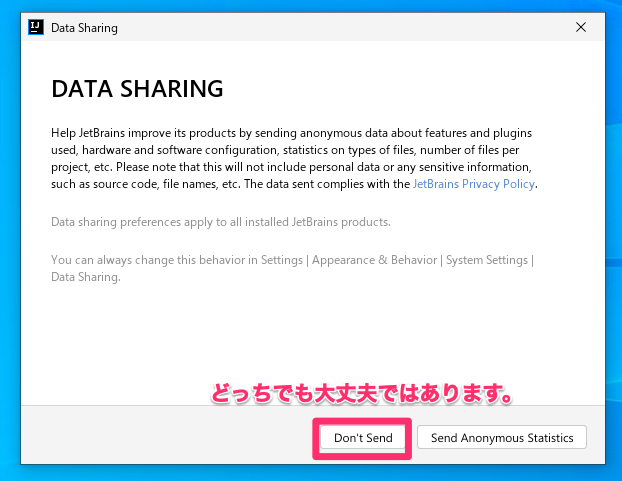
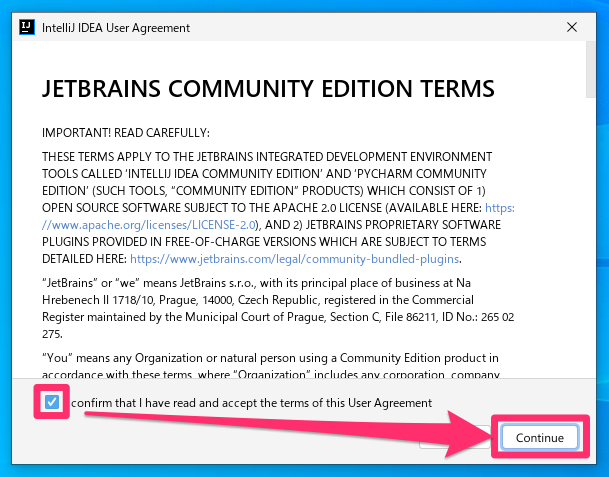
WIP: chapter1

Changed region(s): [[0.0, 0.0294, 1.0, 0.9979]]

diff --git a/doc/win.md b/doc/win.md
@@ -1,8 +1,14 @@
-# Scalaによるプログラミング👩💻入門(Windows版)
+# Chapter1. Scalaによるプログラミング👩💻入門(Windows版) 
 
-## 環境構築(プログラムを書く準備)
+Chapter1では、プログラミングのなんちゃって体験をするの巻です。  
+何をやっているかわからないことだらけの内容にはなってしまうと思いますが、  
+とりあえず手順をなぞってみて欲しいです。  
+実際に体験するのとしないとでは天地の差があるまじろ(?)   
+・・・では。いこうぞ😏
 
-### 1. Chocolatey🍫のインストール
+## 1. プログラムを書く準備(環境構築)
+
+### 1-1. Chocolatey🍫のインストール
 
 PowerShell(Windowsの組込みソフトウェア)を起動します。  
 下図のようにタスクバー左の検索ボックスに`power`といった入力をすると、  
@@ -24,17 +30,16 @@ Set-ExecutionPolicy Bypass -Scope Process -Force; [System.Net.ServicePointManage
 ```
 
 上記をコピーして(上記エリア内にカーソルを合わせると右端に出てくるアイコンをクリックすると簡単です)、  
-PowerShell上で貼り付けます(PowerShellウィンドウ上を右クリックでも張り付きます)。  
+PowerShell上で貼り付けます(PowerShellウィンドウ上を右クリックで張り付きます)。  
 以下のような感じになれば、Enterキーで確定します。
 
 ![choco1.png](image/choco1.png)
 
-暫く待つと以下のような感じに表示されると思います。グレートです。
+暫く待つと以下のような感じに表示されると思います。グレートです🍫
 
 ![choco2.png](image/choco2.png)
 
-
-### 2. JDK, sbt, IntelliJのインストール
+### 1-2. JDK, sbt, IntelliJのインストール
 
 引き続きPowerShellで以下のコマンドを実行します。
 
@@ -50,30 +55,33 @@ choco install -y adoptopenjdk8 sbt intellijidea-community
 
 ![tools2.png](image/tools2.png)
 
-後乗せですが、インストールしたものたちの解説をしておきます。
+ここで、インストールしたものたちの解説をしておきます。
 
-* Git: プログラマの親友
-* JDK: Scalaのエンジン
+* JDK(adoptopenjdk8): Scalaのエンジン
 * sbt: Scalaの親友
-* IntelliJ: プログラマの心の友
+* IntelliJ(intellijidea-community): プログラマの心の友
 
 ・・・冗談です。  
 ただ、使いながら解説したほうが良いと思ってますので、    
-逐次説明を交えていきます。
+今後のチャプター等で逐次説明を交えていきます。
 
-### 3. IntelliJを起動してScalaプラグインを追加
+### 1-3. IntelliJを起動してScalaプラグインを追加
 
-※以降の手順はIntelliJのバージョンによって多少異なる場合があります。
+※以降の手順・画像はIntelliJのバージョンによって多少異なる場合があります。
 
 デスクトップにIntelliJのショートカットアイコンが増えていると思います。  
 ダブルクリックして起動します。
 
 ![idea1.png](image/idea1.png)
 
+利用規約が表示されるので、チェックを入れて進みます。
+
+![idea2.png](image/idea2.png)
+
 匿名データとしてあなたの使用情報を集めてよい？みたいな事を聞かれるので、  
 これはどちらでもいいですが、悩めば`Dont't Send`を選択しておけばいいと思います。
 
-![idea2.png](image/idea2.png)
+![idea3.png](image/idea3.png)
 
 次にScalaのプラグイン(追加機能みたいな感じ)を下図のように追加します。  
 ※下図"③"は必要に応じて入力ください。
@@ -84,55 +92,137 @@ IntelliJの再起動が必要なので、以下のように操作します。
 
 ![plugin2.png](image/plugin2.png)
 
+## 2. サンプルプログラムの起動
 
-## サンプルプログラムの確認
+### 2-1. IntelliJからGit経由で取得
 
-### 1. IntelliJからGit経由で取得
+サンプルScalaプログラムをダウンロードしていきます。  
+`Get from VCS`を選択します。
 
-以下のURLから取得します。詳しくは動画🎥にて。
+![clone1.png](image/clone1.png)
+
+(※場合によっては以下にあるかもしれません。)
+
+![clone1-2.png](image/clone1-2.png)
+
+(※さらに、もしメニューバーが表示されている状況ならば以下にあります。)
+
+![clone1-3.png](image/clone1-3.png)
+
+開いたウィンドウの`URL`に以下のURLを入力します。  
+※これはダウンロードするプログラム(ソース)がおいてある場所です。
 
 ```
 https://github.com/igadaruma/study-scala
 ```
 
-### 2. IntelliJのsbt shellから起動
+その下の`Directory`はダウンロードしたプログラム(ソース)を保存する先です。  
+お好きな場所を指定ください。悩むようなら元々入っている値のままでOKです。
 
-以下のコマンドを実行します。詳しくは動画🎥にて。
+そして、`Git`というツールをインストールする必要がありますので、  
+`Donwload and Install`をクリックします(表示されていなければスルーでOKです)。
 
-```
-run
-```
+![clone2.png](image/clone2.png)
 
-起動後は以下のURLにアクセスして動作を確認できます。  
-👉 [http://localhost:9000](http://localhost:9000)
+以下が表示されたら`はい`を。
 
-## はじめてのプログラミング
+![clone3.png](image/clone3.png)
 
-### 1. 引き算に変えてみる。
+完了すれば`Clone`(ダウンロード的な処理)します。
 
-`app/controllers/SampleController.scala`の30行目付近の以下を修正します。
+![clone4.png](image/clone4.png)
+
+もし以下が表示されたら`Trust Project`を選択します。
+
+![clone5.png](image/clone5.png)
+
+もし以下が表示されたら`アクセスを許可する`を選択します。
+
+![clone6.png](image/clone6.png)
+
+もし以下のようなアドバイスモーダルが表示されたら`Close`を選択します。
+
+![clone7.png](image/clone7.png)
+
+初めて開く時はIntelliJが色々セットアップしてくれるので、  
+落ち着くのを待ちます。状況次第ですが数分〜数十分かかる場合があります。
+
+※下図で表示されている"Scalaっと"から始まる文章は書きかけ内容になっているので、  
+実際は別の内容が表示されていると思います。
+
+![clone8.png](image/clone8.png)
+
+以下が落ち着いた状態です。
+
+![clone9.png](image/clone9.png)
+
+### 2-2. IntelliJのsbt shellからプログラムを起動
+
+ウィンドウの下の方にある`sbt shell`をクリックすると、  
+ウィンドウ下部の表示が切り変わり、暫く文字がわらわらと出ます。  
+暫く(初回は数分かかるかもしれません)待って、以下のような表示になれば文字入力ができるので、  
+`run`と入力してEnterキーを押します。
+
+![run1.png](image/run1.png)
+
+さらにまた暫く待つと以下のような始まった感のあるメッセージが出れば起動完了です。
+
+![run2.png](image/run2.png)
+
+途中、もし以下が表示されたら`アクセスを許可する`を選択します。
+
+![run3.png](image/run3.png)
+
+そのままIntelliJは放置し、以下のリンクをクリックします。  
+起動したプログラムにアクセスすることができます。  
+👉 [http://localhost:9000](http://localhost:9000)  
+初回アクセス時はちょっと(3分以内だとは思います)時間がかかるので焦らず待ちます。  
+(ちなみに`localhost`というのは`自分のパソコン`みたいな意味です。)
+
+![run4.png](image/run4.png)
+
+では使ってみましょう。  
+両方のテキストボックスに以下のように好きな数字を入れて`計算`をクリックします。
+
+![run5.png](image/run5.png)
+
+入力された数字が計算されていることが確認できれば成功です！
+
+![run6.png](image/run6.png)
+
+## 3. はじめてのプログラミング
+
+ついにプログラマーになる瞬間がやってきました!  
+プログラムを書き換えるというのを体験していきます。
+
+### 3-1. 引き算に変えてみる
+
+足し算プログラムだったのを引き算プログラムに変えてみましょう。
+
+`app/controllers/SampleController.scala`の30行目付近の以下を修正します(後に画像があります)。
 
 ```
 // 足し算しています。
 val answer = leftAsNumber + rightAsNumber
 ```
 
-以下にしてみましょう。
+ここに以下の修正を行います。
 
 * `足し` → `引き`
 * `+` → `-`
-    
+
+結果的にはこんな感じに変わります。
 
 ```
 // 引き算しています。
 val answer = leftAsNumber - rightAsNumber
 ```
 
-👉 [http://localhost:9000](http://localhost:9000)
+手順を画像で見るとこんな感じ。
 
-### 2. 画面も調整してみる。
+![fix1.png](image/fix1.png)
 
-`my-first-play/app/views/index.scala.html`の15行目を修正します。
+次に`my-first-play/app/views/index.scala.html`の15行目を修正します(後に画像があります)。
 
 ```
 <input type="number" name="left"/> + <input type="number" name="right"/>
@@ -156,11 +246,29 @@ val answer = leftAsNumber - rightAsNumber
 @left - @right = @answer
 ```
 
+画像で見るとこんな感じ。
+
+![fix2.png](image/fix2.png)
+
+### 3-2. 動作確認
+
+今一度以下にアクセスしてみましょう。  
 👉 [http://localhost:9000](http://localhost:9000)
+
+画面が微妙に変わっていると思うので、  
+先程と同様に操作するとこんな感じ。引き算になりました。
+
+![fix3.png](image/fix3.png)
+
+![fix4.png](image/fix4.png)
 
 ## まとめ
 
+プログラミング完全に理解した！  
 プログラミング完全に理解した！
+
+完全に理解したけど物足りないという方は、   
+[Topページ](https://github.com/igadaruma/study-scala) に戻りChapter2に進行を。
 
 ## 参考文献
 
